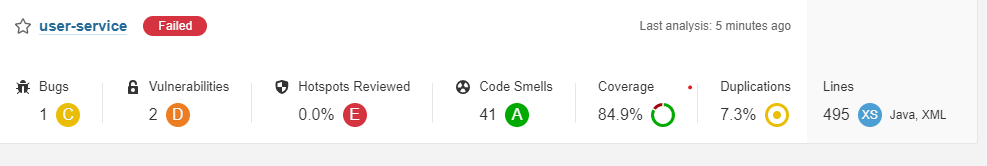
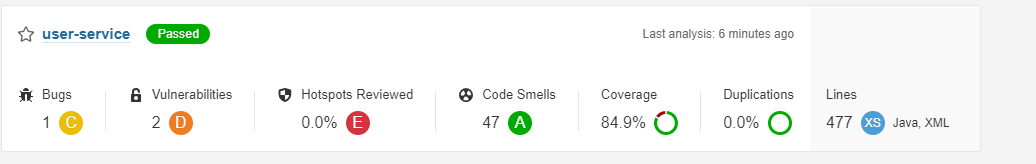
customize method added

diff --git a/src/main/java/com/user/userservice/service/UserService.java b/src/main/java/com/user/userservice/service/UserService.java
@@ -23,18 +23,7 @@ public class UserService {
             throw new UserNotFoundException(ConstFiles.emails);
         }
         userRepository.save(user);
-        UserDto userDTO = new UserDto();
-        userDTO.setUserId(user.getUserId());
-        userDTO.setFirstName(user.getFirstName());
-        userDTO.setLastName(user.getLastName());
-        userDTO.setMiddleName(user.getMiddleName());
-        userDTO.setPhoneNumber(user.getPhoneNumber());
-        userDTO.setEmail(user.getEmail());
-        userDTO.setAddress(user.getAddress());
-        userDTO.setDateOfBirth(user.getDateOfBirth());
-        userDTO.setEmployeeNumber(user.getEmployeeNumber());
-        userDTO.setBloodGroup(user.getBloodGroup());
-        userDTO.setGender(user.getGender());
+        UserDto userDTO = userDt(user);
         return userDTO;
     }
 
@@ -52,23 +41,29 @@ public class UserService {
     public UserDto findID(String userId) {
         try {
             User user = userRepository.findById(userId).get();
-            UserDto userDTO = new UserDto();
-            userDTO.setUserId(user.getUserId());
-            userDTO.setFirstName(user.getFirstName());
-            userDTO.setLastName(user.getLastName());
-            userDTO.setMiddleName(user.getMiddleName());
-            userDTO.setPhoneNumber(user.getPhoneNumber());
-            userDTO.setEmail(user.getEmail());
-            userDTO.setAddress(user.getAddress());
-            userDTO.setDateOfBirth(user.getDateOfBirth());
-            userDTO.setEmployeeNumber(user.getEmployeeNumber());
-            userDTO.setBloodGroup(user.getBloodGroup());
-            userDTO.setGender(user.getGender());
+            UserDto userDTO = userDt(user);
             return userDTO;
         } catch (Exception e) {
             throw new UserNotFoundException(ConstFiles.errorCode);
         }
     }
+
+    public UserDto userDt(User user){
+        UserDto userDTO = new UserDto();
+        userDTO.setUserId(user.getUserId());
+        userDTO.setFirstName(user.getFirstName());
+        userDTO.setLastName(user.getLastName());
+        userDTO.setMiddleName(user.getMiddleName());
+        userDTO.setPhoneNumber(user.getPhoneNumber());
+        userDTO.setEmail(user.getEmail());
+        userDTO.setAddress(user.getAddress());
+        userDTO.setDateOfBirth(user.getDateOfBirth());
+        userDTO.setEmployeeNumber(user.getEmployeeNumber());
+        userDTO.setBloodGroup(user.getBloodGroup());
+        userDTO.setGender(user.getGender());
+        return userDTO;
+    }
+
 
     public List<UserDto> allUser(Integer page, Integer pageSize) {
         if (page == null) {
@@ -92,18 +87,7 @@ public class UserService {
     public UserDto update(User user, String userId) throws Exception {
         if (userRepository.findById(userId).isPresent()) {
             userRepository.save(user);
-                UserDto userDTO = new UserDto();
-                userDTO.setUserId(user.getUserId());
-                userDTO.setFirstName(user.getFirstName());
-                userDTO.setLastName(user.getLastName());
-                userDTO.setMiddleName(user.getMiddleName());
-                userDTO.setPhoneNumber(user.getPhoneNumber());
-                userDTO.setEmail(user.getEmail());
-                userDTO.setAddress(user.getAddress());
-                userDTO.setDateOfBirth(user.getDateOfBirth());
-                userDTO.setEmployeeNumber(user.getEmployeeNumber());
-                userDTO.setBloodGroup(user.getBloodGroup());
-                userDTO.setGender(user.getGender());
+            UserDto userDTO = userDt(user);
                 return userDTO;
         } else {
             throw new UserNotFoundException(ConstFiles.errorCode);
